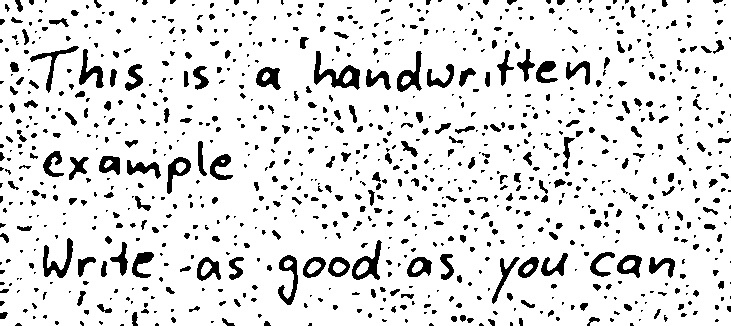
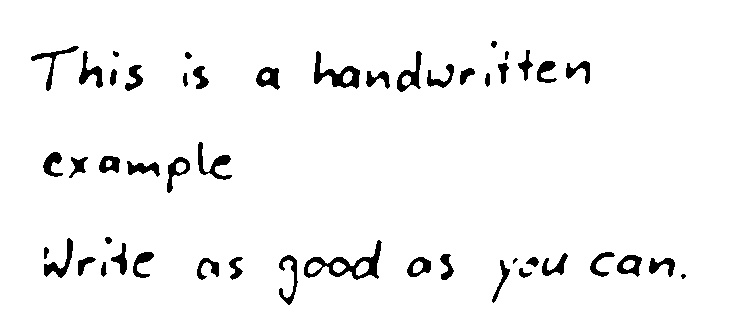
reduced noise in preprocessed image

diff --git a/preprocessing/image_preprocessor.py b/preprocessing/image_preprocessor.py
@@ -51,7 +51,7 @@ class ImagePreprocessor:
     def reduce_noise(self, image: np.ndarray, method: str = 'bilateral') -> np.ndarray:
         """Reduce noise while preserving edges."""
         if method == 'bilateral':
-            return cv2.bilateralFilter(image, 9, 75, 75)
+            return cv2.bilateralFilter(image, 15, 120, 120)
         elif method == 'gaussian':
             return cv2.GaussianBlur(image, (5, 5), 0)
         elif method == 'median':
@@ -64,7 +64,7 @@ class ImagePreprocessor:
         if method == 'adaptive':
             return cv2.adaptiveThreshold(
                 image, 255, cv2.ADAPTIVE_THRESH_GAUSSIAN_C, 
-                cv2.THRESH_BINARY, 11, 2
+                cv2.THRESH_BINARY, 19, 8
             )
         elif method == 'otsu':
             _, binary = cv2.threshold(image, 0, 255, cv2.THRESH_BINARY + cv2.THRESH_OTSU)
@@ -81,7 +81,7 @@ class ImagePreprocessor:
         cleaned = cv2.medianBlur(image, 5)
         
         # Morphological opening to remove small noise
-        kernel = cv2.getStructuringElement(cv2.MORPH_ELLIPSE, (3, 3))
+        kernel = cv2.getStructuringElement(cv2.MORPH_ELLIPSE, (5, 5))
         cleaned = cv2.morphologyEx(cleaned, cv2.MORPH_OPEN, kernel)
         
         # Filter out tiny components
